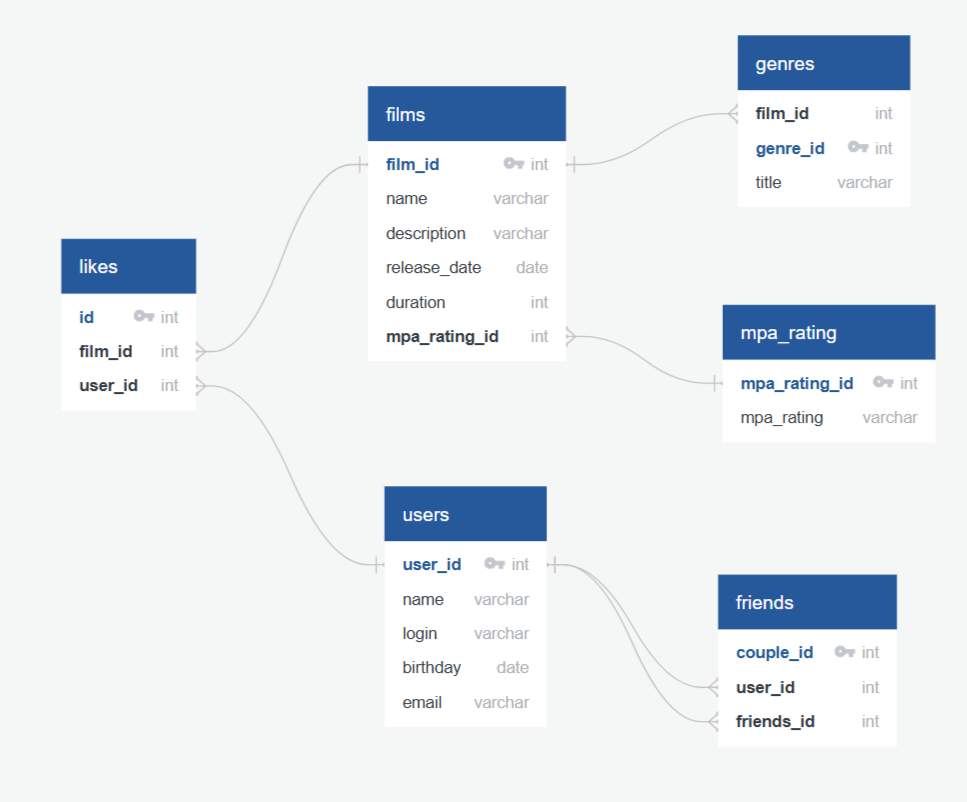
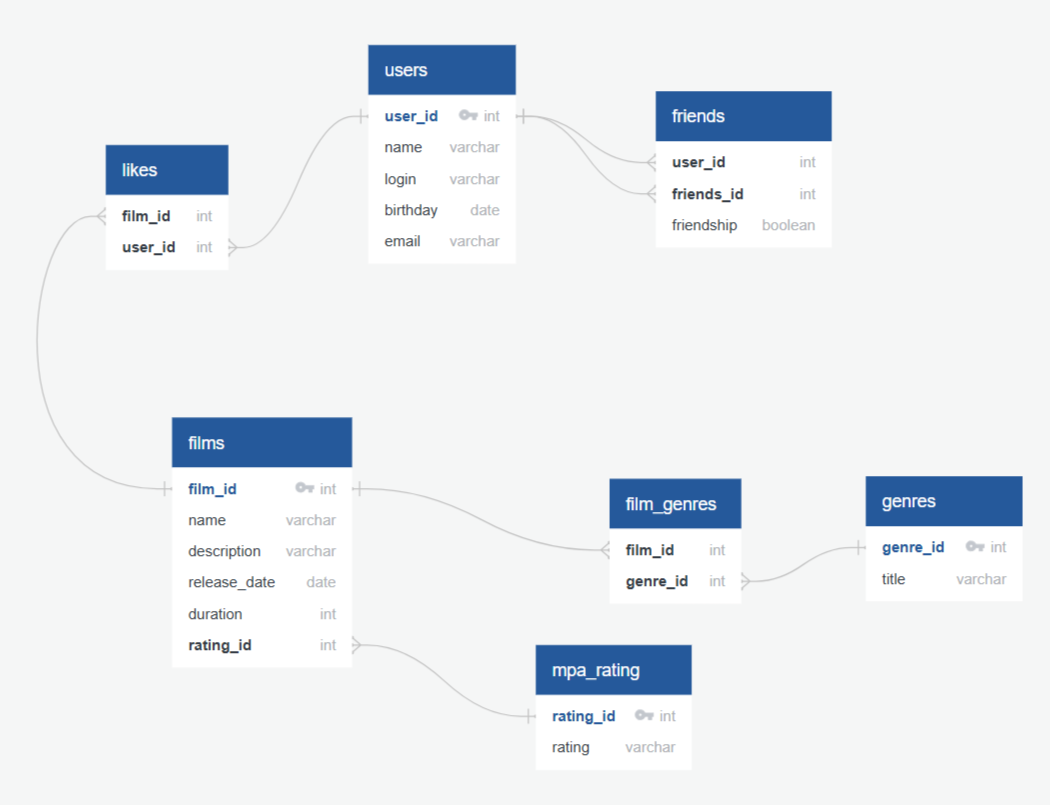
Убрать id лайков и добавить таблицу жанров

diff --git a/README.md b/README.md
@@ -20,27 +20,30 @@ name varchar
 description varchar
 release_date date
 duration int
-mpa_rating_id int FK >- mpa_rating.mpa_rating_id
+rating_id int FK >- mpa_rating.rating_id
 
 mpa_rating
 -------
-mpa_rating_id int PK
-mpa_rating varchar
+rating_id int PK
+rating varchar
+
+film_genres
+-------
+film_id int FK >- films.film_id
+genre_id int FK >- genres.genre_id
 
 genres
 -------
-film_id int FK >- films.film_id
 genre_id int PK
 title varchar
 
 likes
 -------
-id int PK
 film_id int FK >- films.film_id
 user_id int FK >- users.user_id
 
 friends
 -------
-couple_id int PK
 user_id int FK >- users.user_id
 friends_id int FK >- users.user_id
+friendship boolean
